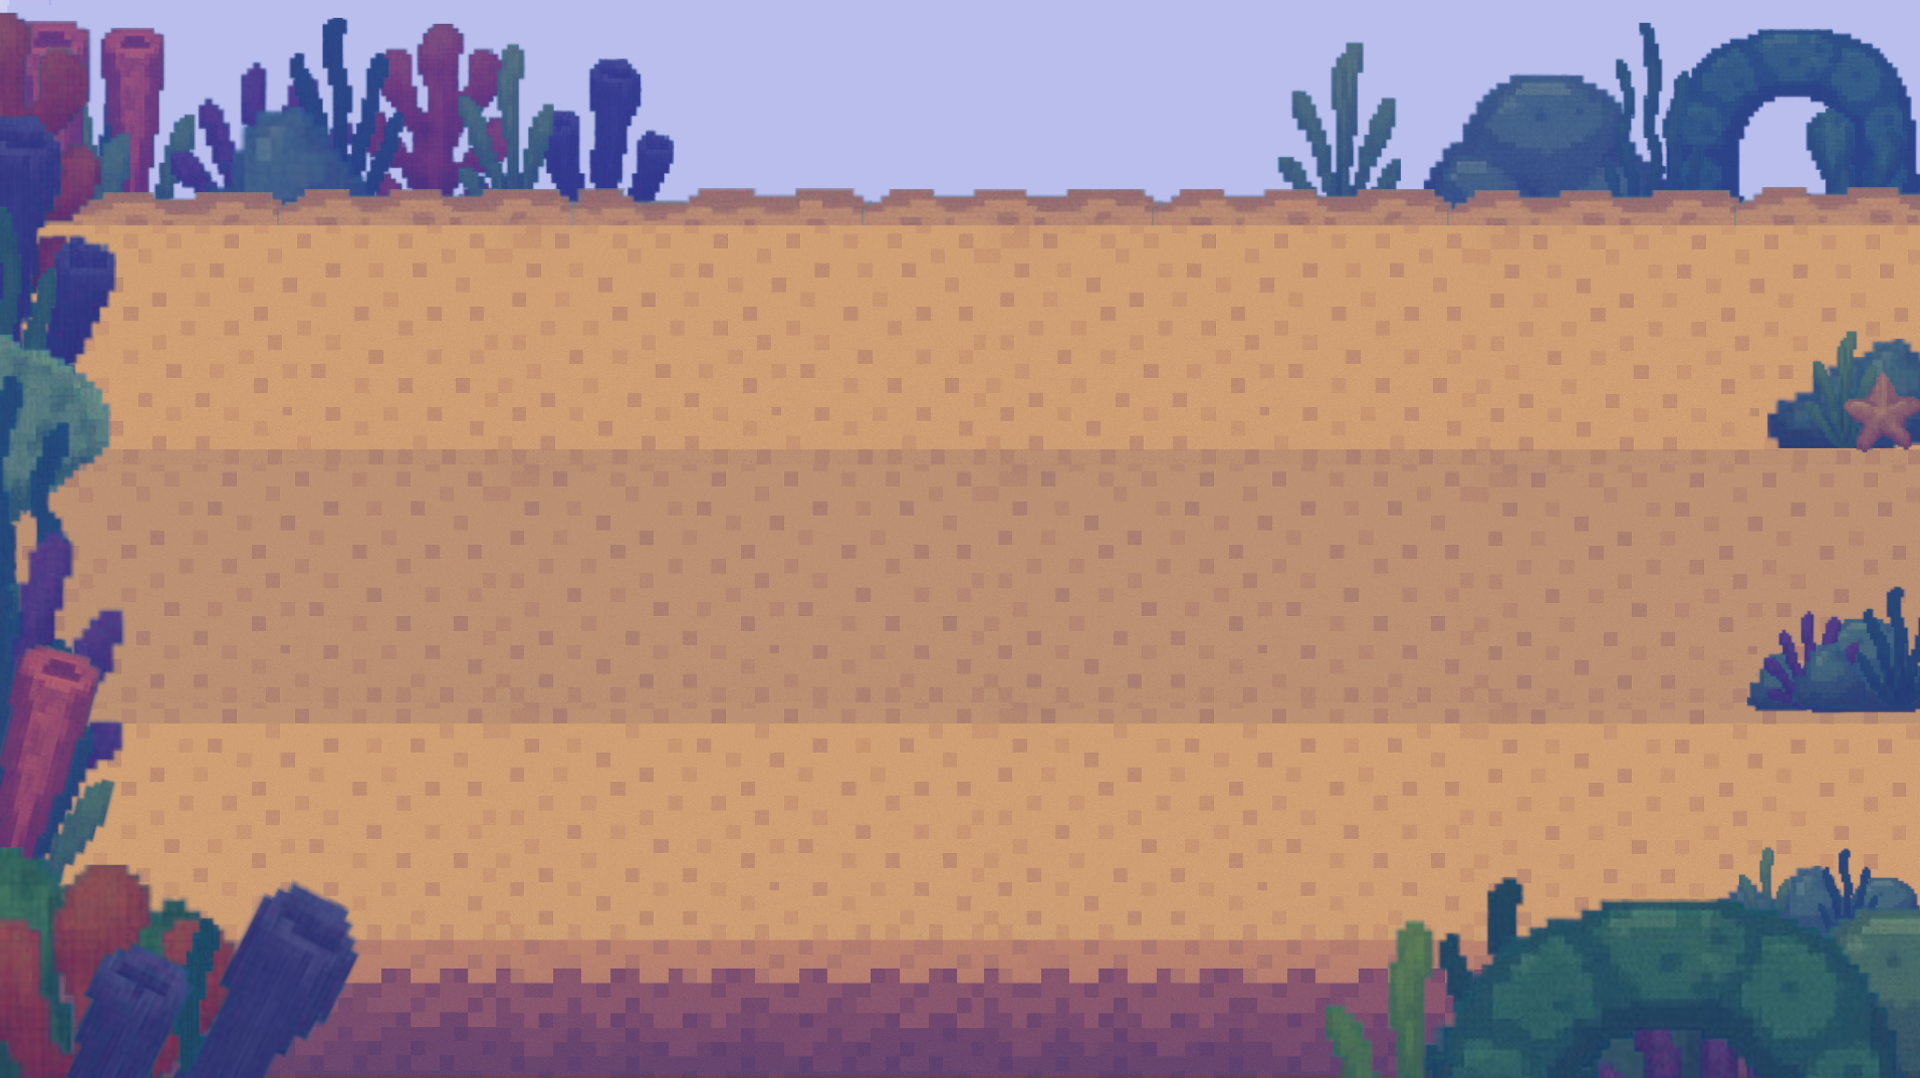
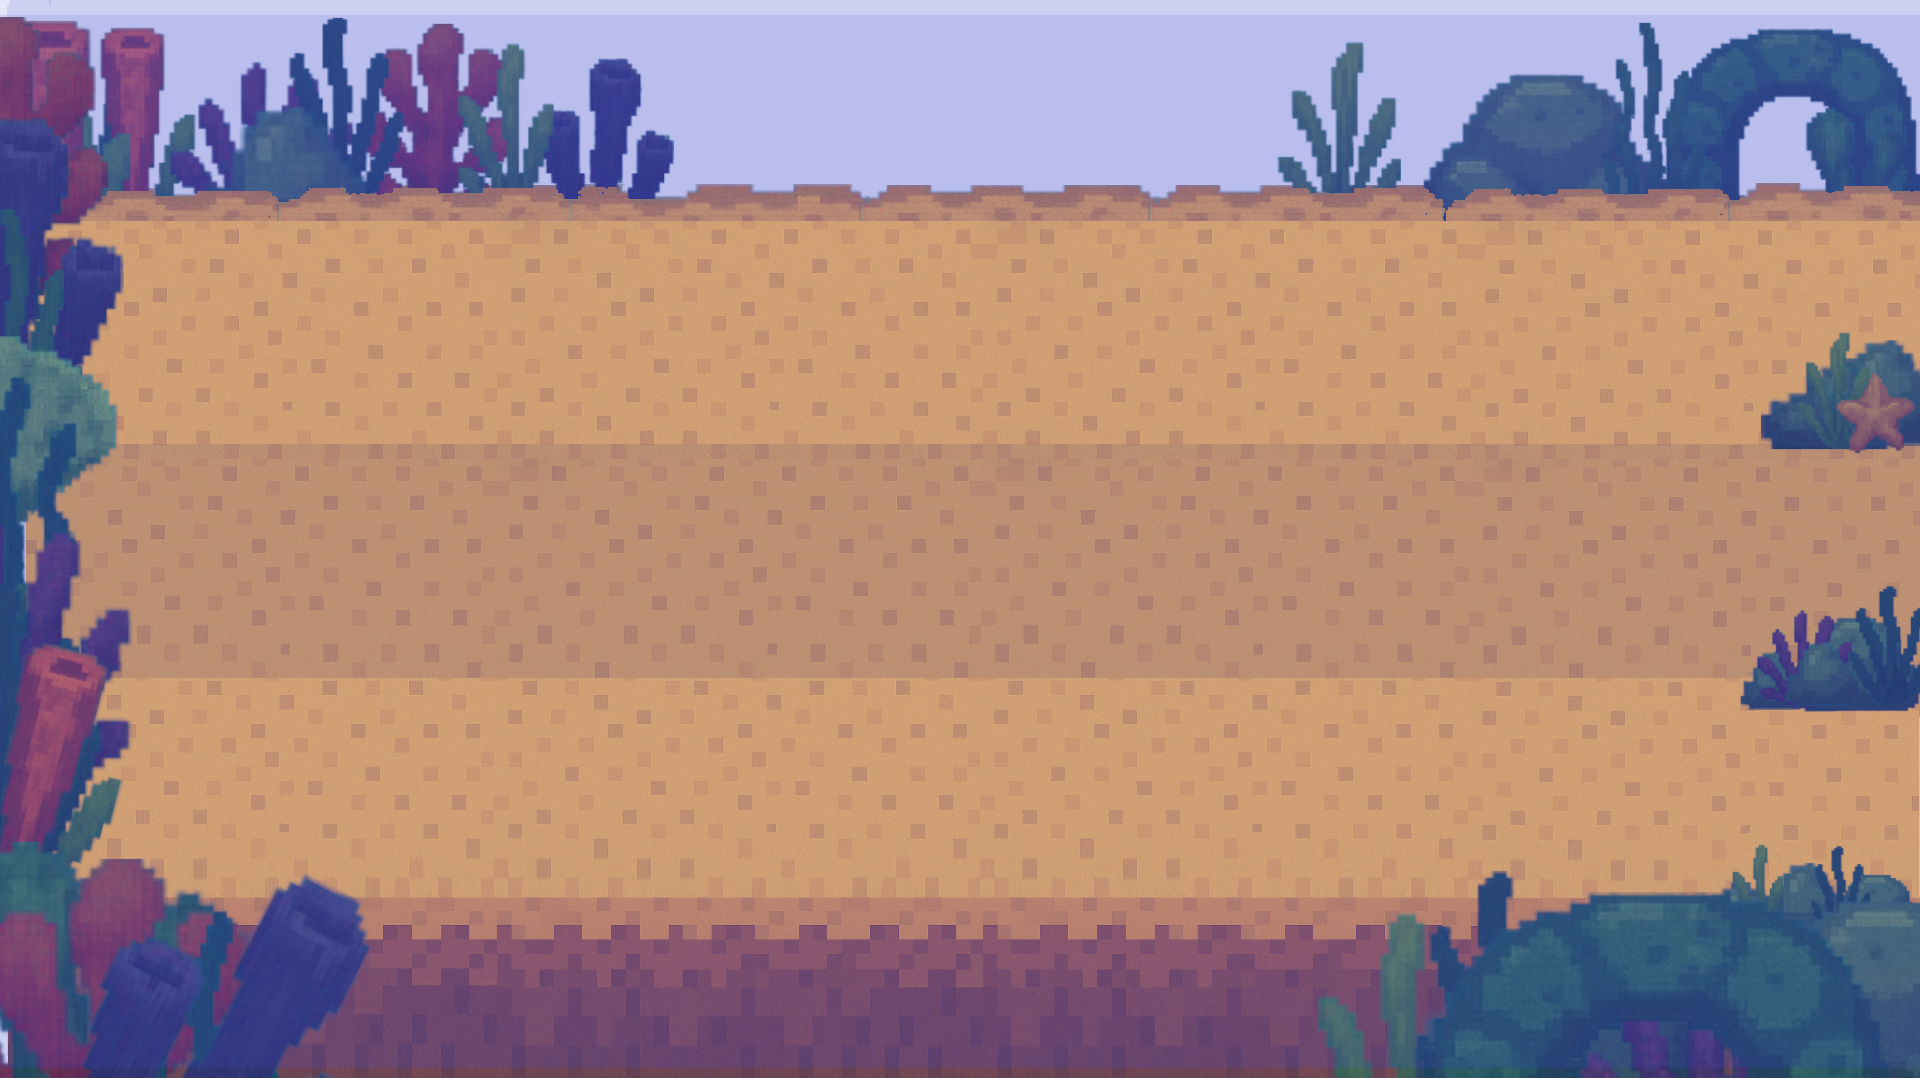
chore(ui): updated game screen to support other screen sizes (#91)

diff --git a/frontend/src/app/child/pages/game/pages/running-page/game-engine.ts b/frontend/src/app/child/pages/game/pages/running-page/game-engine.ts
@@ -9,6 +9,7 @@ import { Projectile } from "./Projectile";
 
 import { Enemy } from "./ennemies/Enemy";
 import { Crab } from "./ennemies/Crab";
+import { scaleToCanvas } from "./utils";
 
 
 
@@ -38,8 +39,8 @@ export class GameEngine {
     ) {
         this.initSocket();
         this.ctx = canvas.getContext('2d')!;
-        this.adjustCanvasResolution();
-        window.addEventListener('resize', () => this.adjustCanvasResolution());
+        this.resizeCanvas();
+        window.addEventListener('resize', () => this.resizeCanvas());
 
         this.players = new Map();
 
@@ -198,21 +199,37 @@ export class GameEngine {
         });
     }
 
-    private adjustCanvasResolution(): void {
-        const scale = window.devicePixelRatio || 1;
+    resizeCanvas() {
+        const aspectRatio = 16 / 9;
+        const parent = this.canvas.parentElement!;
+        const availableWidth = parent.clientWidth;
+        const availableHeight = parent.clientHeight;
 
-        this.canvas.style.width = "100vw";
-        this.canvas.style.height = "100vh";
+        let width = availableWidth;
+        let height = availableWidth / aspectRatio;
 
-        this.canvas.width = window.innerWidth * scale;
-        this.canvas.height = window.innerHeight * scale;
+        if (height > availableHeight) {
+            height = availableHeight;
+            width = height * aspectRatio;
+        }
 
-        this.ctx.scale(scale, scale);
+        this.canvas.width = width;
+        this.canvas.height = height;
     }
 
     private updateGameLoop(): void {
         this.ctx.clearRect(0, 0, this.canvas.width, this.canvas.height);
         this.update();
+        // debut debug
+        for (let i = 0; i <= 5; i++) {
+            const y = scaleToCanvas(0, i * 11.75, 0, 0, this.canvas).y;
+            this.ctx.beginPath();
+            this.ctx.moveTo(0, y);
+            this.ctx.lineTo(this.canvas.width, y);
+            this.ctx.strokeStyle = "rgba(0, 0, 0)";
+            this.ctx.stroke();
+        }
+        // fin debug
         this.draw(this.ctx);
     }
 }

diff --git a/frontend/src/app/child/pages/game/pages/running-page/utils.ts b/frontend/src/app/child/pages/game/pages/running-page/utils.ts
@@ -1,27 +1,35 @@
+export const VIRTUAL_WIDTH = 100;
+export const VIRTUAL_HEIGHT = VIRTUAL_WIDTH * 9 / 16;
+
+/**
+ * Calcule les coordonnées et dimensions physiques sur le canvas à partir des coordonnées virtuelles.
+ * Gère également le redimensionnement optionnel d'une image pour garder ses proportions.
+ */
 export function scaleToCanvas(
     x: number,
     y: number,
     virtualWidth: number,
     virtualHeight: number,
     canvas: HTMLCanvasElement,
-    image?: HTMLImageElement 
+    image?: HTMLImageElement
 ) {
-    const scaleX = canvas.width / 100;
-    const scaleY = canvas.height / 100;
+    const scaleX = canvas.width / VIRTUAL_WIDTH;
+    const scaleY = canvas.height / VIRTUAL_HEIGHT;
 
     const scaledX = x * scaleX;
     const scaledY = y * scaleY;
 
     let width = virtualWidth * scaleX;
     let height = virtualHeight * scaleY;
-    if (image && image.width > 0 && image.height > 0) {
-        const imgRatio = image.width / image.height;
-        const canvasRatio = width / height;
 
-        if (imgRatio > canvasRatio) {
-            height = width / imgRatio;
+    if (image && image.width > 0 && image.height > 0) {
+        const imgAspectRatio = image.width / image.height;
+        const boxAspectRatio = width / height;
+
+        if (imgAspectRatio > boxAspectRatio) {
+            height = width / imgAspectRatio;
         } else {
-            width = height * imgRatio;
+            width = height * imgAspectRatio;
         }
     }
 

diff --git a/backend/app/game/model/game-engine/variables.js b/backend/app/game/model/game-engine/variables.js
@@ -1,11 +1,14 @@
 "use strict";
 Object.defineProperty(exports, "__esModule", { value: true });
-exports.PLAYER_COLORS = exports.LANES = void 0;
+exports.PLAYER_COLORS = exports.LANES = exports.bandHeight = exports.VIRTUAL_HEIGHT = exports.VIRTUAL_WIDTH = void 0;
 const lane_1 = require("./lane");
+exports.VIRTUAL_WIDTH = 100;
+exports.VIRTUAL_HEIGHT = exports.VIRTUAL_WIDTH * 9 / 16;
+exports.bandHeight = exports.VIRTUAL_HEIGHT / 4.787234042553191; //lol c'est pour que chaque lane fasse environ 11.75 unités
 exports.LANES = [
-    new lane_1.Lane(1, 10, 49),
-    new lane_1.Lane(2, 10, 33),
-    new lane_1.Lane(3, 10, 17),
+    new lane_1.Lane(1, 10, exports.bandHeight * 3.5),
+    new lane_1.Lane(2, 10, exports.bandHeight * 2.5),
+    new lane_1.Lane(3, 10, exports.bandHeight * 1.5),
 ];
 exports.PLAYER_COLORS = [
     "red",

diff --git a/backend/app/game/model/game-engine/projectile.js b/backend/app/game/model/game-engine/projectile.js
@@ -1,12 +1,13 @@
 "use strict";
 Object.defineProperty(exports, "__esModule", { value: true });
 exports.Projectile = void 0;
+const variables_1 = require("./variables");
 class Projectile {
     constructor(player) {
         this.id = `projectile-${Date.now()}`;
         this.player = player;
-        this.x = player.x + player.width / 2;
-        this.y = player.y + player.height / 2;
+        this.x = player.x;
+        this.y = player.y;
         this.width = 2.5;
         this.height = 2.5;
         this.speed = 10;
@@ -16,7 +17,7 @@ class Projectile {
         this.markedForDeletion = true;
     }
     update() {
-        if (this.x > 100)
+        if (this.x > variables_1.VIRTUAL_WIDTH)
             this.destroy();
         this.x += this.speed;
     }

diff --git a/backend/app/game-ts/model/game-engine/enemies/enemy.ts b/backend/app/game-ts/model/game-engine/enemies/enemy.ts
@@ -1,6 +1,6 @@
 import { randint } from "../../../../shared/utils/random";
 import { Lane, LaneNumber } from "../lane";
-import { LANES } from "../variables";
+import { bandHeight, LANES } from "../variables";
 
 
 export type EnemyID = `ennemy-${number}`;
@@ -68,13 +68,13 @@ export class Enemy {
 
         switch (this.lane.num) {
             case 1:
-                return 49;
+                return bandHeight * 3.5;
             case 2:
-                return 33;
+                return bandHeight * 2.5;
             case 3:
-                return 17;
+                return bandHeight * 1.5;
             default:
-                return 17;
+                return bandHeight * 1.5;
         }
     }
 

diff --git a/backend/app/game-ts/model/game-engine/projectile.ts b/backend/app/game-ts/model/game-engine/projectile.ts
@@ -1,4 +1,5 @@
 import { Player } from "./player";
+import { VIRTUAL_WIDTH } from "./variables";
 
 export type ProjectileID = `projectile-${number}`;
 
@@ -20,8 +21,8 @@ export class Projectile {
         this.id = `projectile-${Date.now()}`
 
         this.player = player;
-        this.x = player.x + player.width / 2;
-        this.y = player.y + player.height / 2;
+        this.x = player.x;
+        this.y = player.y;
         this.width = 2.5;
         this.height = 2.5;
         this.speed = 10;
@@ -33,7 +34,7 @@ export class Projectile {
     }
 
     update() {
-        if(this.x > 100) this.destroy();
+        if (this.x > VIRTUAL_WIDTH) this.destroy();
         this.x += this.speed;
     }
 

diff --git a/backend/app/game-ts/model/game-engine/variables.ts b/backend/app/game-ts/model/game-engine/variables.ts
@@ -1,13 +1,18 @@
 import { Lane } from "./lane";
 
+export const VIRTUAL_WIDTH = 100;
+export const VIRTUAL_HEIGHT = VIRTUAL_WIDTH * 9 / 16;
+
+export const bandHeight = VIRTUAL_HEIGHT / 4.787234042553191; //lol c'est pour que chaque lane fasse environ 11.75 unités
 export const LANES = [
-    new Lane(1, 10, 49),
-    new Lane(2, 10, 33),
-    new Lane(3, 10, 17),
-] as const;
+    new Lane(1, 10, bandHeight * 3.5), 
+    new Lane(2, 10, bandHeight * 2.5),  
+    new Lane(3, 10, bandHeight * 1.5), 
+];
 
 export const PLAYER_COLORS = [
     "red",
     "blue",
     "yellow"
 ] as const;
+

diff --git a/backend/app/game/model/game-engine/enemies/enemy.js b/backend/app/game/model/game-engine/enemies/enemy.js
@@ -36,13 +36,13 @@ class Enemy {
         }
         switch (this.lane.num) {
             case 1:
-                return 49;
+                return variables_1.bandHeight * 3.5;
             case 2:
-                return 33;
+                return variables_1.bandHeight * 2.5;
             case 3:
-                return 17;
+                return variables_1.bandHeight * 1.5;
             default:
-                return 17;
+                return variables_1.bandHeight * 1.5;
         }
     }
     destroy() {

diff --git a/frontend/src/app/child/pages/game/pages/running-page/Player.ts b/frontend/src/app/child/pages/game/pages/running-page/Player.ts
@@ -16,8 +16,8 @@ export class Player {
     private constructor(private canvas: HTMLCanvasElement, id: UserID) {
         this._id = id;
 
-        this.virtualWidth = 7;
-        this.virtualHeight = 7;
+        this.virtualWidth = 5;
+        this.virtualHeight = 5;
 
         this.decryptedImage = new Image();
         this.encryptedImage = new Image();

diff --git a/frontend/src/app/child/pages/game/pages/running-page/ennemies/Enemy.ts b/frontend/src/app/child/pages/game/pages/running-page/ennemies/Enemy.ts
@@ -32,10 +32,7 @@ export class Enemy {
             this.virtualHeight,
             this.canvas,
             this.enemyImage,
-        );
-
-        console.log(`[DRAW] Drawing enemy ${this._id} at (${this.x}, ${this.y})`);
-        
+        );        
         ctx.drawImage(this.enemyImage, x, y, width, height); 
     }
 

diff --git a/backend/app/game/model/game-engine/player.js b/backend/app/game/model/game-engine/player.js
@@ -4,8 +4,6 @@ exports.Player = void 0;
 const variables_1 = require("./variables");
 class Player {
     constructor(id, color, lane) {
-        this.width = 5;
-        this.height = 5;
         this.hasChangedLane = false;
         this.score = 0;
         this.isParalysed = false;

diff --git a/backend/app/game-ts/model/game-engine/player.ts b/backend/app/game-ts/model/game-engine/player.ts
@@ -6,8 +6,6 @@ export class Player {
     public id: UserID;
     public x: number;
     public y: number;
-    public width: number = 5;
-    public height: number = 5;
     public lane: Lane;
     public hasChangedLane: boolean = false;
     public score: number = 0;
